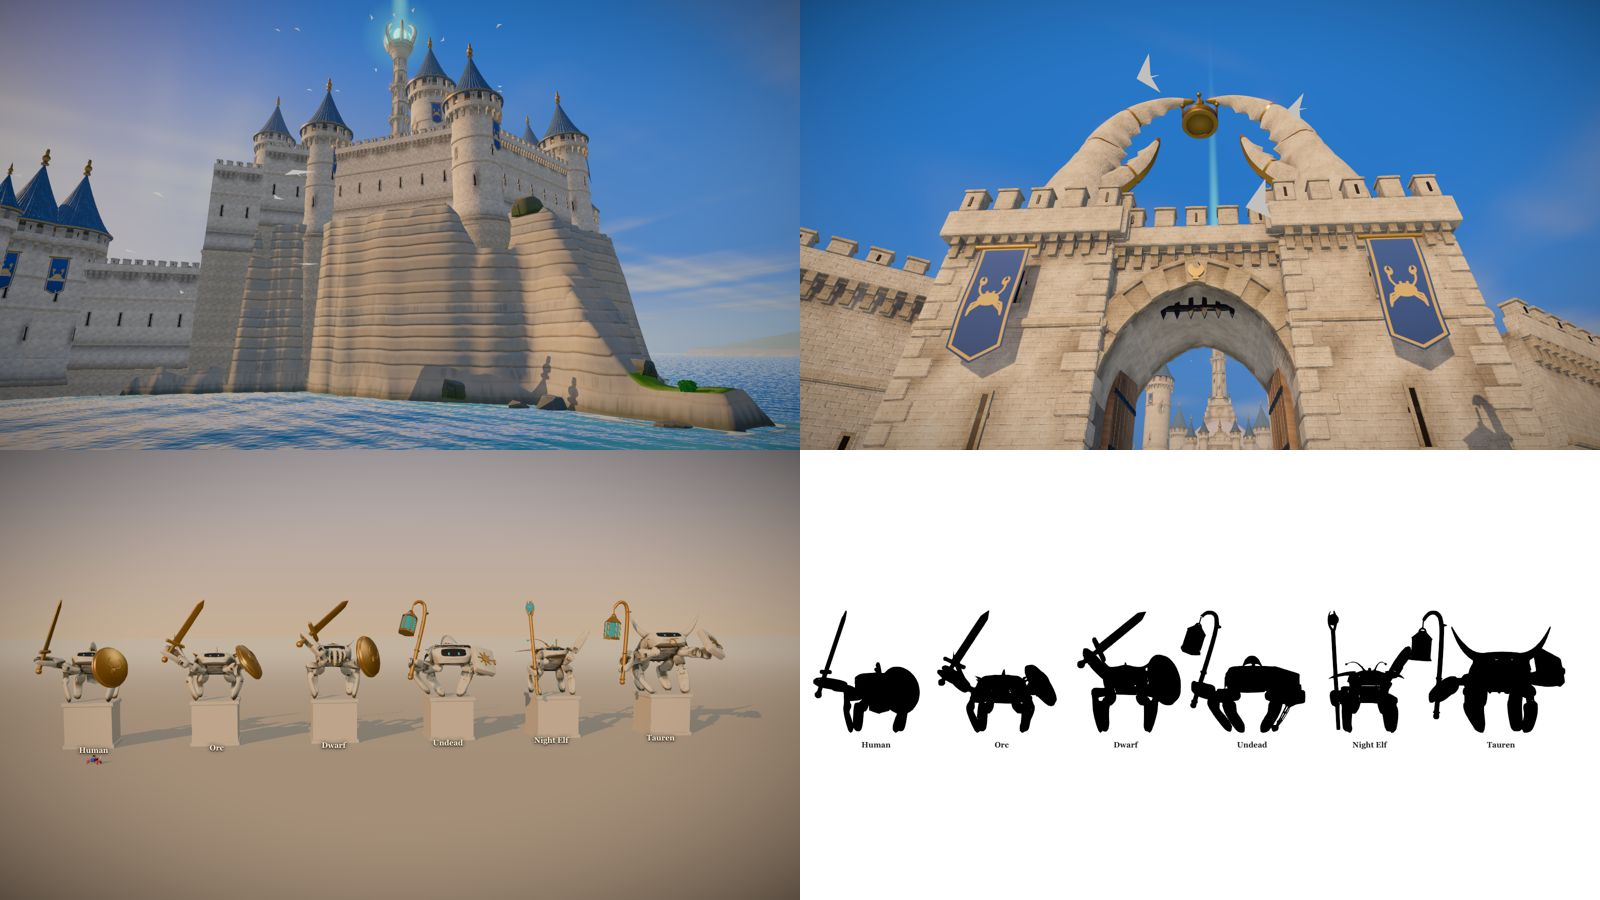
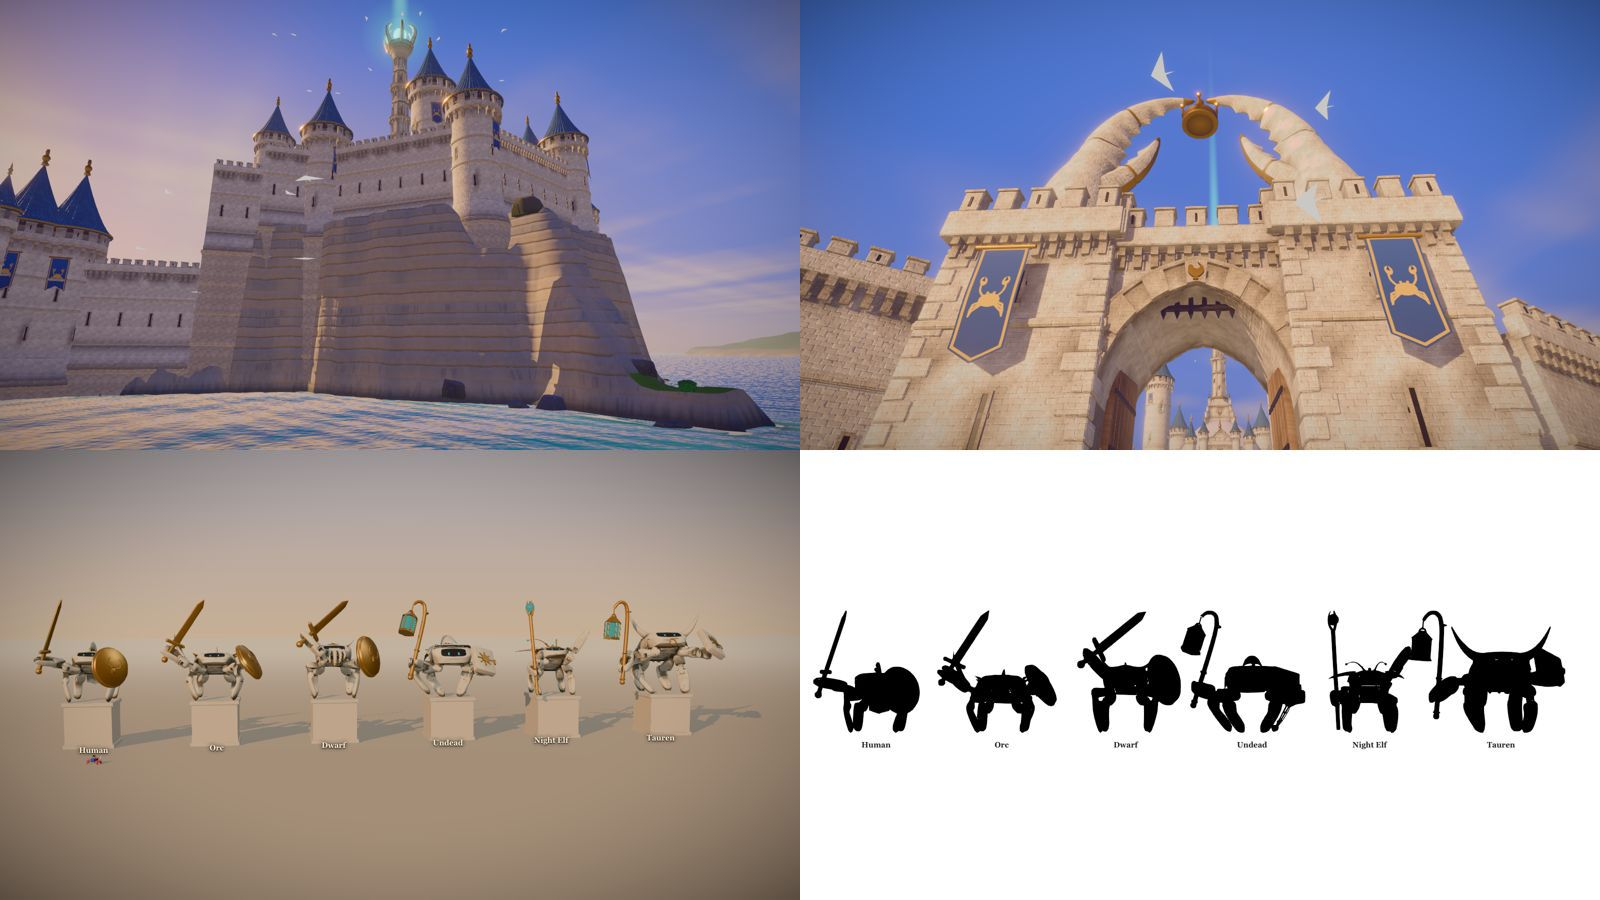
Tidecrown: late afternoon grade with a low golden sun, lilac shade, peach horizon, warm haze and a Tidecrown-only view

Changed region(s): [[0.0, 0.0, 1.0, 0.4978], [0.5312, 0.3422, 0.5625, 0.3733]]

diff --git a/src/game/tidecrown/atmosphere.ts b/src/game/tidecrown/atmosphere.ts
@@ -1,16 +1,18 @@
-// Late afternoon over Tidecrown: a low warm sun from the south-west (the city's southern faces glow from the ridge),
-// a clear blue sky with soft clouds, a pale sea haze, World I's painted sky and water, and the keep's cyan lantern
-// with a beam that reads from far away.
+// Late afternoon over Tidecrown: a low golden sun from the south-west rakes the limestone (the city's southern faces
+// glow from the ridge and the bridge) and throws long shadows; a cool lilac sky fills the shade, a warm haze pales the
+// distance, the sky grades from deep blue overhead to a peach horizon, and the keep's cyan lantern sends a beam that
+// reads from far away.
 import * as THREE from 'three';
 import { createSky, createSkyUniforms, type SkyUniforms } from '../../world/sky';
 import { noiseTexture } from '../../world/terrain';
 import { createWater, type WaterUniforms } from '../../world/water';
 import type { TidecrownTerrain } from './terrain';
 
-/** Toward the sun: south-west, about 24 degrees up. */
-export const TC_SUN_DIR = new THREE.Vector3(-0.62, 0.42, 0.72).normalize();
-export const TC_FOG = { color: new THREE.Color('#cfd9e2'), density: 0.0012 } as const;
-export const TC_ENV_INTENSITY = 0.32;
+/** Toward the sun: south-west by west, about 16 degrees up. */
+export const TC_SUN_DIR = new THREE.Vector3(-0.83, 0.276, 0.48).normalize();
+/** Haze: lilac pearl looking away from the sun, warm gold looking into it. */
+export const TC_FOG = { color: new THREE.Color('#dcd6e6'), toward: new THREE.Color('#f4d6ae'), density: 0.0009 } as const;
+export const TC_ENV_INTENSITY = 0.3;
 
 export interface TidecrownAtmosphere {
   group: THREE.Group;
@@ -19,6 +21,8 @@ export interface TidecrownAtmosphere {
   sun: THREE.DirectionalLight;
   water: { mesh: THREE.Mesh; uniforms: WaterUniforms };
   lanternLight: THREE.PointLight;
+  /** The haze colour for a camera: warmer the more it faces the sun. */
+  hazeColor(camera: THREE.Camera, out: THREE.Color): THREE.Color;
   /** Prefiltered sky for reflections (metal, nacre, glass). */
   environment(renderer: THREE.WebGLRenderer): THREE.Texture;
   update(time: number, camera: THREE.Camera, playerX: number, playerZ: number, ground: (x: number, z: number) => number): void;
@@ -84,35 +88,43 @@ function lanternHalo(at: THREE.Vector3): THREE.Sprite {
   return sprite;
 }
 
+/** World I's painted sky with its high wisps thinned, so the sky reads as cumulus over a clear evening. */
+function tidecrownSky(u: SkyUniforms): THREE.Mesh {
+  const sky = createSky(u), mat = sky.material as THREE.ShaderMaterial;
+  mat.fragmentShader = mat.fragmentShader.replace('smoothstep(0.08, 0.3, y) * 0.5', 'smoothstep(0.08, 0.3, y) * 0.2');
+  return sky;
+}
+
 export function buildTidecrownAtmosphere(terrain: TidecrownTerrain, quality: 'low' | 'high', uTime: { value: number }, lanternAt: THREE.Vector3): TidecrownAtmosphere {
   const group = new THREE.Group();
   group.name = 'tidecrown-atmosphere';
   const skyU = createSkyUniforms(uTime, noiseTexture());
   skyU.uSunDir.value.copy(TC_SUN_DIR);
   skyU.uMoonDir.value.set(0.3, 0.5, -0.8).normalize();
-  skyU.uZenith.value.set('#2c63c6');
-  skyU.uMid.value.set('#9cc0e4');
-  skyU.uHorizon.value.set('#f7cf9e');
-  skyU.uGround.value.set('#cfd9e2');
-  skyU.uSunColor.value.set('#fff1cf');
-  skyU.uGlow.value.set('#ffa457');
-  skyU.uCloudLit.value.set('#fff5e6');
-  skyU.uCloudShade.value.set('#9aabc6');
+  // Deep blue-violet overhead, a lilac band away from the sun and peach toward it; clouds peach and rose.
+  skyU.uZenith.value.set('#4a5fd0');
+  skyU.uMid.value.set('#c6b8de');
+  skyU.uHorizon.value.set('#ffc68a');
+  skyU.uGround.value.set('#e6cfb8');
+  skyU.uSunColor.value.set('#fff0cc');
+  skyU.uGlow.value.set('#ffa050');
+  skyU.uCloudLit.value.set('#ffe4c8');
+  skyU.uCloudShade.value.set('#d4b6ca');
   skyU.uSunVis.value = 1;
-  skyU.uCloudCover.value = 0.52;
-  const sky = createSky(skyU);
+  skyU.uCloudCover.value = 0.62;
+  const sky = tidecrownSky(skyU);
   group.add(sky);
 
   const water = createWater(skyU, terrain.heightTexture(), new THREE.Vector2(terrain.minX, terrain.minZ), new THREE.Vector2(terrain.sizeX, terrain.sizeZ), quality);
   water.uniforms.uDeep.value.set('#0c4b7a');
   water.uniforms.uShallow.value.set('#33c1b2');
-  water.uniforms.uSunLight.value.set('#ffe1b8');
+  water.uniforms.uSunLight.value.set('#ffd6a4');
   (water.mesh.material as THREE.ShaderMaterial).uniforms.uTime = uTime;
   water.mesh.position.set(50, 0, 40);
   group.add(water.mesh);
 
   // Key light: shadows follow a focus ahead of the camera, snapped to shadow texels.
-  const sun = new THREE.DirectionalLight('#ffcb8e', 4.6);
+  const sun = new THREE.DirectionalLight('#ffc890', 6.2);
   sun.name = 'tidecrown-sun';
   sun.castShadow = true;
   const shadowSize = quality === 'high' ? 4096 : 2048, extent = quality === 'high' ? 72 : 56;
@@ -121,7 +133,8 @@ export function buildTidecrownAtmosphere(terrain: TidecrownTerrain, quality: 'lo
   sun.shadow.camera.updateProjectionMatrix();
   sun.shadow.bias = -0.0003;
   sun.shadow.normalBias = 0.06;
-  const hemi = new THREE.HemisphereLight('#bac8dc', '#7d6041', 0.8);
+  // Cool lilac sky fill for the shade, warm bounce from the ground.
+  const hemi = new THREE.HemisphereLight('#979ee8', '#b88d62', 0.7);
   group.add(sun, sun.target, hemi);
 
   const lanternLight = new THREE.PointLight('#53f2e4', 520, 120, 1.5);
@@ -129,7 +142,8 @@ export function buildTidecrownAtmosphere(terrain: TidecrownTerrain, quality: 'lo
   group.add(lanternLight, lanternBeam(lanternAt), lanternHalo(lanternAt));
 
   let envRT: THREE.WebGLRenderTarget | null = null;
-  const focus = new THREE.Vector3(), fwd = new THREE.Vector3();
+  const focus = new THREE.Vector3(), fwd = new THREE.Vector3(), look = new THREE.Vector3();
+  const sunFlat = TC_SUN_DIR.clone().setY(0).normalize();
   const texel = (2 * extent) / shadowSize;
   return {
     group,
@@ -141,21 +155,28 @@ export function buildTidecrownAtmosphere(terrain: TidecrownTerrain, quality: 'lo
     environment(renderer) {
       if (!envRT) {
         const pmrem = new THREE.PMREMGenerator(renderer), scene = new THREE.Scene();
-        scene.add(createSky(skyU));
+        scene.add(tidecrownSky(skyU));
         envRT = pmrem.fromScene(scene, 0, 0.1, 100);
         pmrem.dispose();
         (scene.children[0] as THREE.Mesh).geometry.dispose();
       }
       return envRT.texture;
     },
+    hazeColor(camera, out) {
+      camera.getWorldDirection(look);
+      const t = (Math.hypot(look.x, look.z) > 1e-3 ? look.setY(0).normalize().dot(sunFlat) : 0) * 0.5 + 0.5;
+      return out.copy(TC_FOG.color).lerp(TC_FOG.toward, t * t);
+    },
     update(time, camera, playerX, playerZ, ground) {
       sky.position.copy(camera.position);
-      // Shadows follow the player; a free camera far from the player (cinematics, screenshots) takes them along
-      // a little ahead of itself instead.
+      // Shadows follow the player; a free camera far from the player (cinematics, screenshots) takes them to the
+      // ground it looks down at, or a little ahead of itself.
       if (Math.hypot(camera.position.x - playerX, camera.position.z - playerZ) < 40) focus.set(playerX, 0, playerZ);
       else {
         camera.getWorldDirection(fwd);
-        focus.copy(camera.position).addScaledVector(fwd.setY(0).normalize(), THREE.MathUtils.clamp(camera.position.y * 1.1, 14, 48));
+        const down = fwd.y < -0.08 ? (camera.position.y - ground(camera.position.x, camera.position.z)) / -fwd.y : 0;
+        if (down > 48) focus.copy(camera.position).addScaledVector(fwd, Math.min(down, 420));
+        else focus.copy(camera.position).addScaledVector(fwd.setY(0).normalize(), THREE.MathUtils.clamp(camera.position.y * 1.1, 14, 48));
       }
       focus.y = ground(focus.x, focus.z);
       focus.x = Math.round(focus.x / texel) * texel;

diff --git a/src/game/game.ts b/src/game/game.ts
@@ -76,6 +76,8 @@ const GAME_VIEW: ViewOptions = { bloom: { intensity: 0.9, threshold: 0.9 }, vign
 /** Frostlight's own grade while it is shown: cool lifted shadows, warm lamp light, snow that reads white (grade.ts). */
 // Bloom keys above the brightest sunlit snow, so lamps and windows glow and the snow does not haze over.
 const FROST_VIEW: ViewOptions = { ...GAME_VIEW, bloom: { intensity: 1.6, threshold: 1.05, smoothing: 0.35, radius: 0.78 }, grade: { lift: [0.005, 0.009, 0.018], warm: 0.7, white: 0.16 } };
+/** Tidecrown's late afternoon: a touch brighter and richer, violet lifted shade, a soft glow on sunlit stone. */
+const TIDECROWN_VIEW: ViewOptions = { ...GAME_VIEW, exposure: 1.1, agxLook: { saturation: 1.28, power: 1.1 }, bloom: { intensity: 1.1, threshold: 0.78, smoothing: 0.3, radius: 0.8 }, grade: { lift: [0.014, 0.006, 0.03], warm: 0.35, white: 0.1 } };
 
 const ZONES: { name: string; anchors: PoiId[] }[] = [
   { name: 'Clawhaven', anchors: ['spawn', 'forge', 'chapel', 'tavern'] },
@@ -761,7 +763,7 @@ export class Game {
     this.world.update(dt, worldTime, this.camera);
     this.world2.update(dt,worldTime);
     // The game's own views follow the world shown; endings and captures that set their own are left alone.
-    const view=this.engine.viewOptions;if((view===GAME_VIEW||view===FROST_VIEW)&&view!==this.gameView())this.engine.setView(this.scene,this.camera,this.gameView());
+    const view=this.engine.viewOptions;if((view===GAME_VIEW||view===FROST_VIEW||view===TIDECROWN_VIEW)&&view!==this.gameView())this.engine.setView(this.scene,this.camera,this.gameView());
     this.lighthouseSecret?.update();
     // A spectator view shows no HUD and plays no music.
     if(!this.spectator){
@@ -1463,7 +1465,7 @@ export class Game {
     this.hud.minimap.setZone(regionName(this.zone), this.player.inCombat);
   }
 
-  private gameView(): ViewOptions { return this.world2?.fourth.root.visible ? FROST_VIEW : GAME_VIEW; }
+  private gameView(): ViewOptions { return this.world2?.inTidecrown ? TIDECROWN_VIEW : this.world2?.fourth.root.visible ? FROST_VIEW : GAME_VIEW; }
 
   /** A duel keeps the adventure alive, even when entered from a shared victory celebration. */
   resumeFriendAdventure(authority:boolean):void {

diff --git a/src/game/tidecrown/island.ts b/src/game/tidecrown/island.ts
@@ -22,7 +22,8 @@ export class TidecrownIsland {
   readonly root = new THREE.Group();
   readonly spawn = new THREE.Vector3(TC_ARRIVAL[0], 0, TC_ARRIVAL[1]);
   readonly spawnYaw = TC_ARRIVAL_YAW;
-  readonly fog = TC_FOG;
+  /** Scene fog while inside; the colour follows the camera (warmer facing the sun). */
+  readonly fog = { color: TC_FOG.color.clone(), density: TC_FOG.density };
   readonly envIntensity = TC_ENV_INTENSITY;
   layout!: TidecrownLayout;
   collision!: Collision;
@@ -121,6 +122,7 @@ export class TidecrownIsland {
     if (!this.built) return;
     if (camera) {
       this.atmosphere.update(time, camera, playerX, playerZ, (x, z) => this.layout.heightAt(x, z));
+      this.atmosphere.hazeColor(camera, this.fog.color);
       this.foliage?.update(camera);
     }
     if (this.lanternGlow) this.lanternGlow.emissiveIntensity = 3.2 + 0.5 * Math.sin(time * 1.3);

diff --git a/src/game/tidecrown/materials.ts b/src/game/tidecrown/materials.ts
@@ -119,8 +119,8 @@ export function tidecrownMaterials(village: Kit): TidecrownMaterials {
   wood.name = 'TC_Wood';
   wood.vertexColors = true;
   return {
-    TC_Limestone: stone(brick, 'TC_Limestone', '#e6dcc6', 0.25, 0.85, 0.62, 1.05),
-    TC_LimestoneDark: stone(brick, 'TC_LimestoneDark', '#cfc2a6', 0.25, 1.0, 0.8, 1.05),
+    TC_Limestone: stone(brick, 'TC_Limestone', '#e8e1d3', 0.25, 0.85, 0.62, 1.05),
+    TC_LimestoneDark: stone(brick, 'TC_LimestoneDark', '#d2c8b4', 0.25, 1.0, 0.8, 1.05),
     TC_Slate: stone(tiles, 'TC_Slate', '#35577d', 0.19, 1.1, 0.73, 1.15),
     TC_Gold: new THREE.MeshStandardMaterial({ name: 'TC_Gold', color: '#c9a24a', metalness: 0.85, roughness: 0.35, vertexColors: true }),
     TC_Nacre: nacre(),
